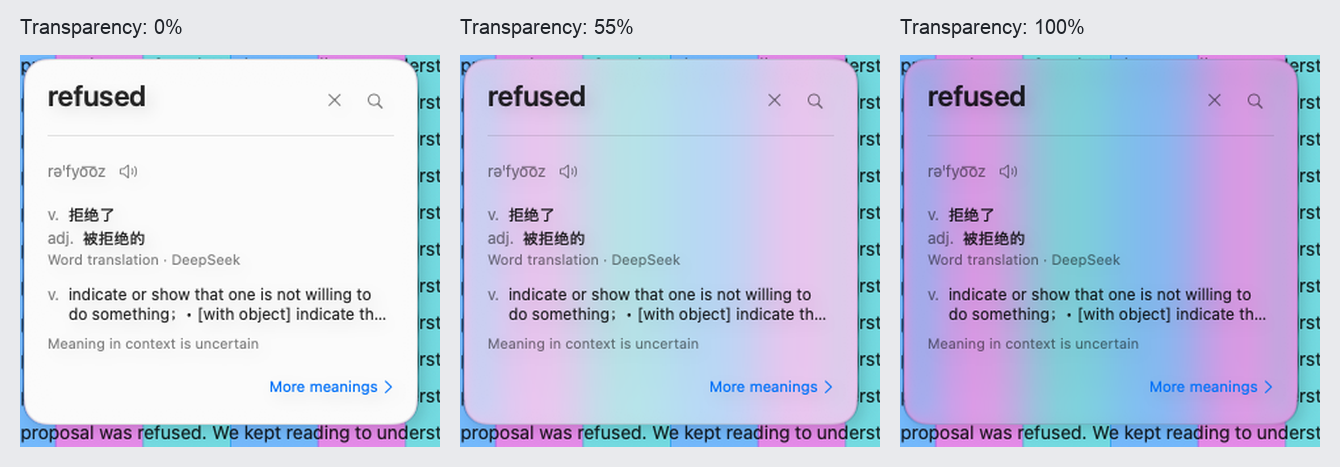
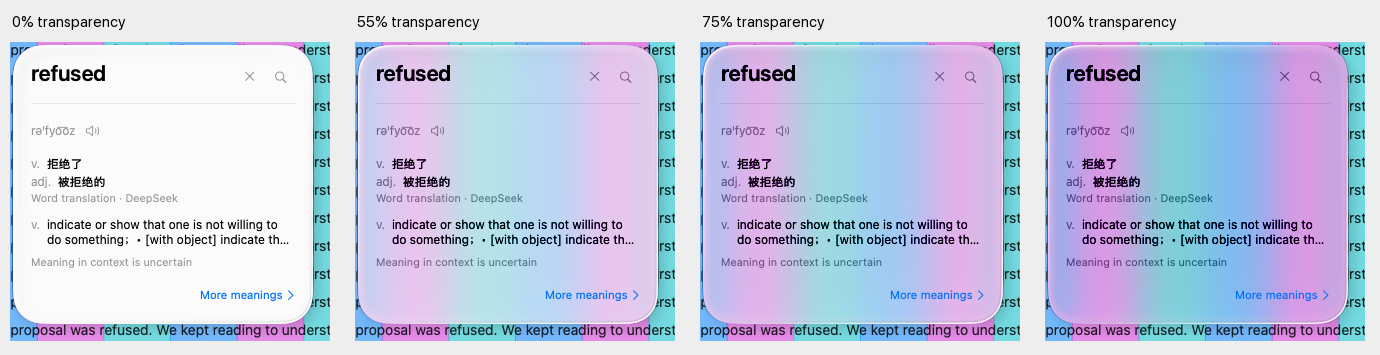
Refine lookup glass reflections and corner depth

diff --git a/Sources/XiaolaiDictUI/LookupGlass.swift b/Sources/XiaolaiDictUI/LookupGlass.swift
@@ -19,7 +19,7 @@ extension EnvironmentValues {
     @Entry var lookupGlass: LookupGlass = .standard
 }
 
-/// Only the background receives the glass effect. Fading the whole card would also fade its text.
+/// Keep the foreground inside the native glass hierarchy. Only the neutral wash changes opacity.
 private struct LookupGlassSurface: ViewModifier {
     @Environment(\.scale) private var scale
     @Environment(\.lookupGlass) private var glass
@@ -32,26 +32,57 @@ private struct LookupGlassSurface: ViewModifier {
     }
 
     func body(content: Content) -> some View {
-        content
-            .clipShape(shape)
-            .background {
-                if reduceTransparency {
-                    shape.fill(CardSurface.panel(for: scheme))
-                } else {
-                    // A continuous wash controls opacity while native clear glass keeps its rim
-                    // and refraction. No private blur API and no fading of the foreground.
-                    shape.fill(CardSurface.panel(for: scheme).opacity(
-                        glass.surfaceOpacity(reduceTransparency: false)))
-                        .glassEffect(.clear, in: shape)
-                        // The lookup deliberately never becomes key. Keep only its material
-                        // visually active; making the window key would steal the reader's focus.
-                        .environment(\.appearsActive, true)
+        if reduceTransparency {
+            content.clipShape(shape)
+                .background(shape.fill(CardSurface.panel(for: scheme)))
+                .overlay(shape.strokeBorder(
+                    Color.primary.opacity(contrast == .increased
+                        ? Token.Opacity.accentBorder : Token.Opacity.border),
+                    lineWidth: Token.Stroke.hairline))
+        } else {
+            content.clipShape(shape)
+                .background(shape.fill(CardSurface.panel(for: scheme).opacity(
+                    glass.surfaceOpacity(reduceTransparency: false))))
+                .glassEffect(.clear, in: shape)
+                // This window must stay non-key. The environment changes visual activity only.
+                .environment(\.appearsActive, true)
+                .overlay {
+                    LookupGlassRim(shape: shape, increasedContrast: contrast == .increased)
+                        .allowsHitTesting(false)
+                        .accessibilityHidden(true)
                 }
+        }
+    }
+}
+
+/// An illuminated edge gives a large glass sheet visible thickness even over a uniform page.
+/// The backdrop blur and refraction remain native; no background is captured or drawn here.
+private struct LookupGlassRim: View {
+    let shape: RoundedRectangle
+    let increasedContrast: Bool
+
+    var body: some View {
+        ZStack {
+            // Light just inside the edge, rather than a white wash across the reading surface.
+            shape.inset(by: Token.Glass.rimInset)
+                .strokeBorder(.white.opacity(Token.Glass.rimGlowOpacity), lineWidth: Token.Glass.rimGlowWidth)
+                .blur(radius: Token.Glass.rimGlowRadius)
+                .clipShape(shape)
+            // The inner edge shades the lower side of the glass and catches light above it.
+            shape.inset(by: Token.Glass.rimInset)
+                .strokeBorder(LinearGradient(gradient: Token.Glass.innerReflection,
+                    startPoint: .topLeading, endPoint: .bottomTrailing),
+                    lineWidth: Token.Stroke.hairline)
+                .blur(radius: increasedContrast ? 0 : Token.Glass.innerReflectionBlur)
+            shape.strokeBorder(LinearGradient(gradient: Token.Glass.outerReflection,
+                startPoint: .topLeading, endPoint: .bottomTrailing),
+                lineWidth: Token.Glass.rimWidth)
+            if increasedContrast {
+                shape.inset(by: Token.Glass.contrastInset).strokeBorder(
+                    Color.primary.opacity(Token.Opacity.accentBorder),
+                    lineWidth: Token.Stroke.hairline)
             }
-            .overlay(shape.strokeBorder(
-                Color.primary.opacity(contrast == .increased
-                    ? Token.Opacity.accentBorder : Token.Opacity.border),
-                lineWidth: Token.Stroke.hairline))
+        }
     }
 }
 

diff --git a/Sources/XiaolaiDictUI/DesignTokens.swift b/Sources/XiaolaiDictUI/DesignTokens.swift
@@ -80,6 +80,26 @@ public enum Token {
         static let settingsLabelWidth: CGFloat = 112
         static let previewHeight: CGFloat = 300
         static let previewParagraphs = 3
+        // Edge optics answer to the display, like hairlines, rather than to the reading font.
+        static let rimWidth: CGFloat = 1.4
+        static let rimInset: CGFloat = 1.5
+        static let rimGlowWidth: CGFloat = 3
+        static let rimGlowRadius: CGFloat = 3
+        static let rimGlowOpacity = 0.30
+        static let innerReflectionBlur: CGFloat = 0.6
+        static let contrastInset: CGFloat = 3
+        /// Light catches both diagonally opposed edges; the side between them stays transparent.
+        static let outerReflection = Gradient(stops: [
+            .init(color: .white.opacity(0.95), location: 0),
+            .init(color: .white.opacity(0.65), location: 0.20),
+            .init(color: .white.opacity(0.06), location: 0.52),
+            .init(color: .white.opacity(0.65), location: 0.78),
+            .init(color: .white.opacity(0.95), location: 1),
+        ])
+        /// A shaded inner edge separates the curved glass from a flat translucent plate.
+        static let innerReflection = Gradient(colors: [
+            .white.opacity(0.65), .white.opacity(0.02), .black.opacity(0.18),
+        ])
     }
 
     enum Panel {

diff --git a/Sources/XiaolaiDictUI/Scale.swift b/Sources/XiaolaiDictUI/Scale.swift
@@ -243,7 +243,8 @@ struct Scale: Equatable, Sendable {
         init(em: CGFloat) {
             card = em * 0.90
             panel = em * 1.00
-            lookup = em * 1.50
+            // A broad curved edge carries the lookup's glass reflection, like a floating macOS control.
+            lookup = em * 2.50
         }
     }
 

diff --git a/design-qa.md b/design-qa.md
@@ -2,109 +2,112 @@
 
 final result: passed
 
-Hui's live screenshots reopened the review: the Settings preview was insufficient evidence for
-the actual unfocused lookup. The installed fix now responds visibly in the same unfocused window,
-including over a dark reading background. No actionable P0, P1, or P2 findings remain in these states.
-Earlier compact-card validation is preserved in [the previous QA report](design-qa-compact.md).
+## Findings
 
-## Comparison target and evidence
+The earlier pass accepted backdrop blur and opacity response without checking the reflective
+edge. Hui's live `implement` screenshot reopened that acceptance. The revised native card now
+has a bright curved outer edge, a softer inner reflection, and a shaded inner edge. The focused
+comparison shows these features at the top-left corner where the previous card was a flat plate.
+No actionable P0, P1, or P2 differences remain in the captured states against the material target.
+This is a comparison of glass treatment, not a claim that dictionary content is pixel-identical
+to Apple's Control Center.
 
-- Source visual truth: [selected design](docs/liquid-glass-design.png), 1487 × 1058 pixels.
-- Current implementation: [real floating lookup](docs/liquid-glass-popup.png), installed build
-  `2026.1005.145902`, 320 × 299 pixels at 1 pixel per macOS point, including its shadow margin.
-  State: light app appearance, 55% transparency, actual `refused` dictionary lookup, app inactive,
-  window not key. [Current combined comparison](docs/liquid-glass-popup-comparison.png) places the
-  selected card region, Hui's reported opaque card, and the fixed card together. Card crops are
-  normalized to 530 pixels wide. The reported card is `Appearance`; dynamic content differs.
-- [Actual pop-up opacity comparison](docs/liquid-glass-popup-transparency.png) contains full native
-  window captures at 0%, 55%, and 100%. [Dark-backdrop capture](docs/liquid-glass-popup-dark.png)
-  checks maximum transparency over dark reading content while the app itself remains in light mode.
-  These supersede the initial Settings-only material verification below.
-- The following Appearance-pane evidence records the initial layout review, build `2026.1005.140701`:
-- Implementation: [installed Appearance pane](docs/liquid-glass-appearance.png), build
-  `2026.1005.140701`, 580 × 642 pixels at 1 pixel per macOS point.
-- Viewport: the existing 580 × 642 point native settings window. There is no CSS viewport or browser.
-- State: light appearance, saved transparency 55%, sample `refused` lookup. The captured window's
-  chrome and slider render in the native inactive state; pointer and keyboard focus were not tested.
-- [Full-view comparison](docs/liquid-glass-comparison.png): source and implementation together,
-  each resized to 680 pixels wide with its aspect ratio preserved. The source is a conceptual
-  settings mockup rather than a screenshot with a known point density, so this is a composition
-  comparison, not a pixel difference measurement.
-- [Focused card comparison](docs/liquid-glass-card-comparison.png): actual card regions from both
-  images normalized to the same 620 pixel width. Enlargement of the 1x native capture exposes
-  its original pixel density rather than additional rendering detail.
-- [Transparency endpoints](docs/liquid-glass-transparency.png): 0%, 55%, and 100% captures of the
-  installed pane, using the same actual compact-card renderer as lookup windows.
+## Source and implementation
 
-## Findings and comparison history
+- Source visual truth: [Hui's Apple Control Center reference](docs/liquid-glass-control-center-reference.png),
+  a 285 × 287 pixel crop of the supplied 592 × 998 screenshot. Only Bluetooth and AirDrop are retained;
+  the crop omits the personal Wi-Fi name and activity banner. Original capture density is unknown.
+- Earlier card design: [selected settings mockup](docs/liquid-glass-design.png), 1487 × 1058 pixels.
+  Its dictionary layout and dark foreground remain the content target.
+- Implementation: [actual floating card](docs/liquid-glass-popup.png), build `2026.1005.152146`,
+  320 × 299 pixels at 1 pixel per macOS point, including its asymmetric shadow margin.
+  This is a real `refused` lookup through the app's dictionary service, with its normal word translation.
+- State: light app appearance, saved transparency approximately 75%, app inactive, window not key.
+  The diagnostic backdrop is the app's own reading window, not an image embedded in the product.
+  The backdrop does not represent the exact content behind Control Center in Hui's screenshot.
+- [Full material comparison](docs/liquid-glass-popup-comparison.png), 1050 × 390 pixels, contains the
+  Apple material reference, previous real card at 100%, and revised real card at 100% together.
+  The previous capture is installed build `2026.1005.145902`; both native card captures are 320 × 299
+  pixels, use the same reading backdrop, and show the same dictionary/translation content. A new
+  attempt to capture that old build returned `windowMissing`, so the previously verified capture
+  is used and no fresh baseline-run success is claimed.
+- [Focused edge comparison](docs/liquid-glass-popup-edge-comparison.png), 900 × 340 pixels, enlarges
+  actual 100 × 100 pixel corner crops to 285 × 285 pixels. This makes rim illumination and inner depth
+  visible; enlargement adds no rendering detail. The capsule and dictionary corners have different
+  geometry, so their radii are not judged by a pixel difference.
+- [Appearance pane](docs/liquid-glass-appearance.png), 1160 × 1284 pixels at 2 pixels per point in the
+  existing 580 × 642 point window, uses the same revised compact-card material and the saved 75% value.
+  Its chrome and slider were inactive in this capture. [Focused preview endpoints](docs/liquid-glass-settings-optics-transparency.png)
+  normalize the 2x card crops to 400 pixels wide and show 0%, 75%, and 100% together.
+- [Pop-up opacity states](docs/liquid-glass-popup-transparency.png), 1380 × 355 pixels, include 0%,
+  55%, saved 75%, and 100% without rescaling the native captures. [Dark reading backdrop](docs/liquid-glass-popup-dark.png)
+  checks the same light-appearance card at maximum transparency. There is no CSS viewport or browser.
 
-1. **Resolved P2 — preview backdrop ended above the definitions.** The initial native preview
-   contained only one short paragraph, leaving most of the glass over a flat field. The selected
-   design contains reading text behind the entire card, making the material easier to judge.
-   `LookupGlassPreview` now continues the sample reading text through the preview using
-   `Token.Glass.previewParagraphs`. [Before and after evidence](docs/liquid-glass-iteration.png)
-   includes the source, build `2026.1005.140259`, and final build `2026.1005.140701` in one input.
-   The earlier 1160 × 1284 pixel capture was at 2x density; both native captures are normalized
-   to the same width for this comparison. The final backdrop covers the card's content region.
-2. **Expected native adaptations.** The existing 580-point settings window uses its standard
-   six-pane toolbar rather than the mockup's standalone Appearance heading. The card keeps its
-   existing compact type sizes and combines meanings with the same part of speech. The native
-   material responds to its background. The sample backdrop uses reading text on a neutral accent
-   wash rather than the reference's decorative desktop wallpaper. These preserve the requested
-   glass treatment and adjustment layout without replacing existing app content with a raster mockup.
-3. **Resolved P1 — actual unfocused pop-up stayed opaque and the slider gave no visible feedback.**
-   Hui's live `Appearance` screenshot shows a flat gray surface despite the transparent Settings
-   preview. The earlier pass did not test the actual non-key window and incorrectly accepted its
-   dull material as a native adaptation. `LookupGlassSurface` now explicitly supplies the public
-   `appearsActive` environment value to the glass background, and `LookupPanelSceneView` clears its
-   SwiftUI window backing. This changes the material without making the window key or activating
-   the app. In the installed build, all three captures use window 9228 with `isKey: false` and
-   `appIsActive: false`. Changing the same observable preference as the slider from 0% to 100%
-   changed 98.17% of interior pixels by more than 24 luminance levels; rounded corners and shadow
-   margins were excluded. The frontmost app stayed unchanged and the saved 100% value was restored.
-   The current combined comparison, full-window opacity comparison, and dark-backdrop capture
-   provide the post-fix evidence. The neutral wash varies; foreground text is not faded.
+## Comparison history
+
+1. **Resolved P2 — the original Settings backdrop stopped above the definitions.** The preview now
+   continues sample reading paragraphs across the full card region. Earlier layout evidence remains
+   in [the compact-card report](design-qa-compact.md) and `docs/liquid-glass-iteration.png`.
+2. **Resolved P1 — the actual unfocused pop-up was opaque despite the Settings preview.** The previous
+   fix explicitly supplied the public `appearsActive` value and cleared the SwiftUI window backing.
+   Its real non-key-window report verified opacity changes. That established functioning material,
+   but the later live screenshot showed that its optical quality still needed work.
+3. **Resolved P1 — a gray outline and narrow corners made the glass look flat.** Hui's Control Center
+   screenshot became the explicit optical target. An isolated native non-key-window experiment
+   compared background-only clear glass, whole-content clear/regular glass, native tint, and AppKit
+   `contentView` hosting. Switching the native style alone still left the edge flat. The production
+   modifier now keeps foreground and wash in the same native glass hierarchy, removes the gray
+   outline, adds a graduated outer reflection plus an inner illuminated/shaded edge, and increases
+   lookup corner radius from 1.5 to 2.5 em. The surface opacity still changes only the neutral wash.
+   The full and focused comparisons above show the revised real card, not only the experiment.
 
 ## Required fidelity surfaces
 
 | Surface | Review |
 | --- | --- |
-| Fonts and typography | Native system UI fonts retain the bold word, lighter pronunciation, readable meanings, and blue action hierarchy. Reading text uses the serif system font. Labels and percentage fit; no truncation or overlapping text is visible. |
-| Spacing and layout | Liquid Glass description sits left of the preview; percentage, slider, endpoint labels, and helper text sit below it. The card has rounded corners, divider, balanced padding, and a shadow. All controls fit the existing window. All six panes settle at one width with no overshoot or top-edge drift. |
-| Colors and tokens | The actual unfocused window now shows blurred backdrop colors. Its 0/55/100 captures show progressively more background; primary text stays legible over colored and dark reading content. The Settings slider retains native active/inactive styling. The saved preference controls only the wash. Reduce Transparency produces an opaque fallback; Increase Contrast strengthens the edge. |
-| Image quality and assets | The implementation uses live native text, SF Symbols, and the actual card renderer. No screenshot is embedded as UI. Saved screenshots are lossless PNG evidence. The source's decorative wallpaper is treated as demonstration context, not a required app asset. |
-| Copy and content | Liquid Glass, Transparency, percentage, More opaque, Clearer, and helper text follow the reference. The sample remains `refused`; its definitions follow HuiDict's existing grouping. “More meanings” retains its real lookup action. |
+| Fonts and typography | Existing system fonts, bold word, pronunciation, part-of-speech labels, definitions, and blue action are preserved. Foreground now receives the glass hierarchy's visual treatment. Text stays sharp at each opacity; the English definition retains its existing compact truncation and More meanings action. |
+| Spacing and layout | Existing card width, padding, content height, settings layout, and shadow margins are preserved. Broader continuous corners support the reflective rim without clipping content. All six Settings panes settle at the existing 580-point width without overshoot or top-edge drift. |
+| Colors and tokens | Live native clear glass continues to sample and blur the backdrop. Outer reflection, inner shading, and corner geometry use design tokens. Opacity changes only the neutral wash. The outer edge is strongest along the illuminated curves rather than a uniform gray outline. Reduce Transparency retains its opaque branch; Increase Contrast adds a distinct inner boundary. |
+| Image quality and assets | Native live text and SF Symbols are used. No screenshot or generated background is embedded in the card. The reference and implementation PNGs are evidence only. Bright specular edges are vector UI treatment, over the native material. |
+| Copy and content | The Liquid Glass description, slider, percentage, endpoint labels, and helper text retain the approved adjustment panel. Real lookup text, pronunciation, dictionary service, translation, and More meanings flow retain their existing behavior. |
 
-## Validation and limits
+## Native validation
 
 - `DEVELOPER_DIR=/Applications/Xcode.app/Contents/Developer make local` passed: seven Swift test
-  runs totaling 2,109 tests reported success, plus 83 tool tests for the final fix. Optional
-  dictionary fixtures and the upstream `XiaolaiDict.app` bundle
-  verification suite were skipped by their existing guards; this change builds `HuiDict.app`.
-- Four new tests cover the default, saved values across relaunch, invalid input, continuous
-  surface opacity, and Reduce Transparency. Existing layout tests still verify bottom padding.
-- Installed `--settings-report` after the rendering fix: all six panes settled, 580-point width
-  retained, and no screenshot failures. The saved preference was restored.
-- The opt-in `--panel-report` glass check captures only HuiDict's real lookup and its own backdrop.
-  It verified live updates in the same window, unchanged focus, and restoration of the saved value.
-  It also captured a dark reading background at maximum transparency. The native material's rim
-  is subtler than the reference's painted highlight; the actual backdrop determines its coloration.
-- Three fresh installed `--permission-report` processes returned `com.linhui.huidict`, both grants,
-  and exit status zero. The app's own Permissions pane showed both On. After a normal restart,
-  macOS TCC logged Allowed for Accessibility and Screen Capture with HuiDict's installed executable
-  as the responsible process. Signing compatibility, strict signatures, and host/service hashes
-  were verified; the previous installed bundle remains available as a rollback.
-- Three repeated `refused` lookups returned dictionary entries through the signed XPC service.
-- Pointer dragging, keyboard adjustment, repeated selection/image lookup gestures, dark-mode
-  app rendering, and a visual check with accessibility settings enabled remain unperformed. The user
-  deferred the draggable preview test until the demo was complete. Programmatic value changes
-  and unit tests do not substitute for those hands-on checks.
+  runs totaling 2,109 tests and 83 Python tool/reference tests. Existing optional-fixture and
+  upstream-bundle guard skips remain; this build produces HuiDict. No test failures were reported.
+- The installed pop-up used window 9535 throughout 0%, 55%, saved 75%, and 100%. Every state
+  had `isKey: false` and `appIsActive: false`; the frontmost application remained unchanged.
+  Changing the same observable preference used by the slider from 0% to 100% changed 98.54% of
+  measured interior pixels by more than 24 luminance levels. That establishes opacity response;
+  it does not substitute for the visual edge comparison.
+- The saved value `0.7479014295212766` was restored after both native diagnostics.
+- The Settings report captured Appearance and Permissions with no evidence errors. All six panes
+  settled, preserved width, and had zero top-edge drift and zero overshoot.
+- The candidate passed signing/update compatibility and strict bundle verification before replacement.
+  The installed bundle retains the host and both service hashes verified at staging. Three fresh
+  installed permission-report processes returned `com.linhui.huidict`, both grants, and exit zero.
+  Normal LaunchServices process 10865 had macOS TCC Allowed decisions for Accessibility and
+  Screen Recording, with HuiDict as the subject. Three installed real service lookups returned entries.
+  The previous bundle is retained at the existing Applications location as a rollback copy.
+
+## Intentional differences and residual checks
+
+Control Center is a grid of controls with white foreground, capsule shapes, and a different backdrop.
+The dictionary retains the selected mockup's dark reading text, its compact layout, and its blue action.
+Its public native glass supplies blur and refraction; the added rim supplies the visible large-sheet
+edge. The subdued in-window reading preview shows diffuse backdrop color at high transparency rather
+than readable background text. The actual floating-window captures demonstrate the clearer material
+response over distinct reading colors. These are expected state and content differences.
+
+The diagnostics mutate the slider's observable preference; a physical slider drag is not claimed.
+Dark app appearance, pointer hover, and user-triggered selection/image shortcut gestures were not
+performed in this optical QA run. No OS accessibility preferences were changed for testing.
 
 ## Implementation checklist
 
-- [x] Apply the shared native glass surface to lookup cards and the actual-card preview.
-- [x] Add a saved, continuous transparency slider in Settings → Appearance.
-- [x] Preserve foreground readability and provide the accessibility fallback.
-- [x] Compare the source and final native captures together, including the resolved preview issue.
-- [x] Build, test, install reversibly, and verify signing, permissions, and dictionary services.
-- [ ] Perform the deferred pointer/keyboard and selection/image gesture checks in the installed app.
+- [x] Compare reference and real implementation together, including focused rim crops.
+- [x] Resolve the flat-edge mismatch and recapture the actual non-key card.
+- [x] Check Settings layout, preview, opacity endpoints, and preservation of the saved setting.
+- [x] Pass required tests and preserve signing compatibility before installation.
+- [x] Verify installed normal-launch grants and real service lookups after deployment.
